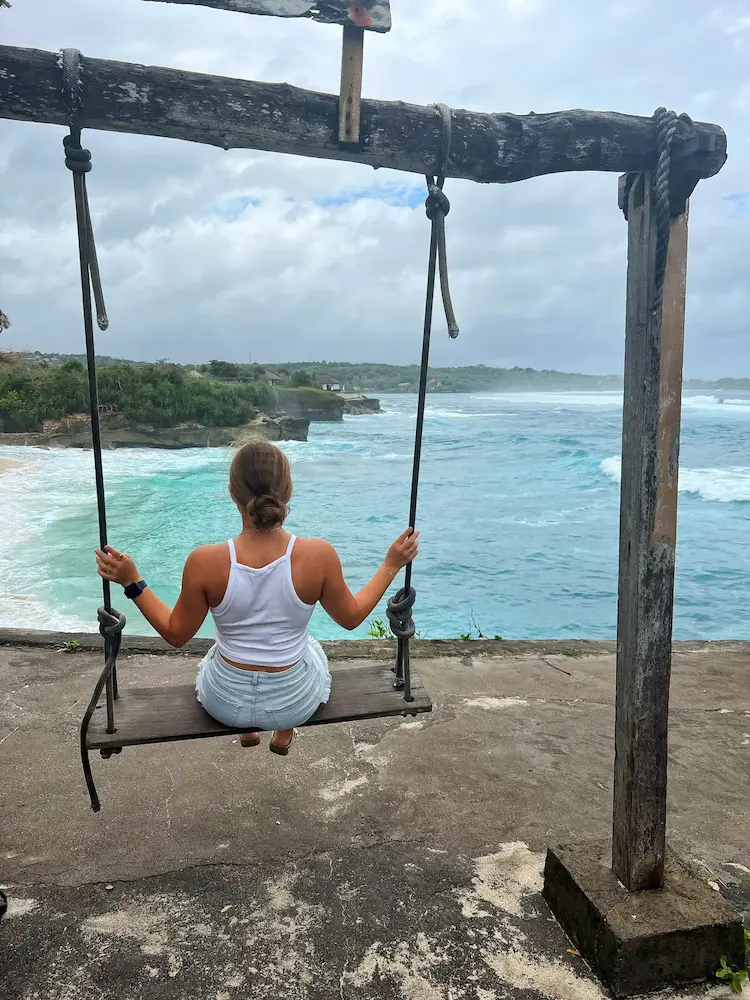
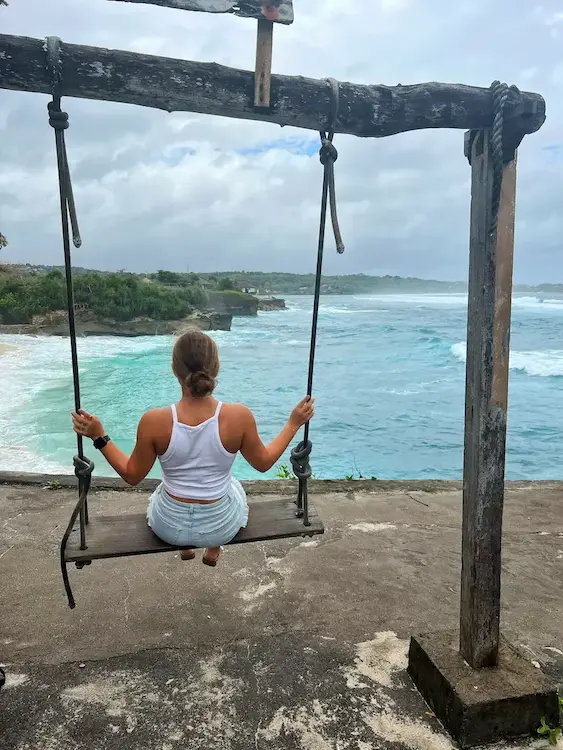
Ryddet op i css + billede optimering

diff --git a/css/layout.css b/css/layout.css
@@ -81,10 +81,6 @@ p {
   border-radius: 5%;
   list-style-position: inside;
 }
-/* .top-row,
-p {
-  padding-left: 2em;
-} */
 
 section .top-row {
   background-color: #ffffff;
@@ -92,12 +88,6 @@ section .top-row {
 }
 
 .grid_1 {
-  /* display: grid;
-  grid-template-columns: 1fr;
-  place-items: center;
-  margin-top: 50px;
-  margin-bottom: 100px;
-  padding-top: 2.5em; */
   grid-row: 1;
   grid-column: 1;
   text-align: center;
@@ -111,9 +101,6 @@ section .top-row {
   margin-top: 2em;
 }
 
-/* .grid_1 {
-  margin-top: 5em;
-} */
 
 .grid_1 .billede-container {
   grid-area: 1 / 1;
@@ -151,7 +138,6 @@ section .top-row {
   display: grid;
   grid-template-columns: 1fr 1fr;
   gap: 6em;
-  /* padding-top: 10em; */
   padding-left: 5em;
   padding-right: 5em;
   padding-bottom: 8em;
@@ -170,9 +156,9 @@ section .top-row {
 }
 .card {
   border: 1px solid #d4d4d4;
-  padding: 16px; /* Luft indeni boksen */
+  padding: 16px; 
   max-width: 300px;
-  margin: 20px auto; /* Centrerer den på siden */
+  margin: 20px auto; 
   text-align: center;
   box-shadow: 1px 1px 14px 8px rgb(0 0 0 / 20%);
   background-color: white;
@@ -192,7 +178,6 @@ section .top-row {
   place-items: center;
   width: 50%;
   margin: auto;
-  /* margin-top: -70px; */
   margin-top: 3em;
   padding-bottom: 8em;
 }
@@ -233,7 +218,7 @@ p {
   box-sizing: border-box;
 }
 
-/* Skjul checkbox */
+
 .dropdown input[type="checkbox"] {
   display: none;
 }
@@ -251,7 +236,7 @@ p {
   text-align: left;
 }
 
-/* Dropdown-indhold (fakta-tekst) skjult som standard */
+
 .dropdown-content {
   max-height: 0;
   overflow: hidden;
@@ -263,7 +248,7 @@ p {
   transition: max-height 0.3s ease, padding 0.3s ease;
 }
 
-/* Fakta-tekst */
+
 .dropdown-content p {
   margin: 12px 0;
   color: #000000;
@@ -271,28 +256,12 @@ p {
   text-align: left;
 }
 
-/* Vis dropdown når checkbox er aktiveret */
+
 .dropdown input[type="checkbox"]:checked + label + .dropdown-content {
-  max-height: 500px; /* Nok plads til at vise tekst */
+  max-height: 500px; 
   padding: 15px 20px;
 }
 
-/* nav ol {
-  display: flex;
-} */
-
-/* @media (width >=550px) {
-}
-@media (width >=1100px) {
-  h1 {
-    font-size: 38px;
-  }
-}
-@media (width: 1500px) {
-  h1 {
-    font-size: 38px;
-  }
-} */
 
 @media (width < 800px) {
   .grid_1-1 {

diff --git a/css/generel.css b/css/generel.css
@@ -1,12 +1,9 @@
-/* @media (max-width =768px) {
-} */
-
 body {
   font-family: "Abel", sans-serif;
   font-weight: 400;
   font-style: normal;
 }
-main{
+main {
   background-color: rgb(250, 249, 255);
 }
 h1 {
@@ -34,7 +31,6 @@ nav {
 footer {
   background-color: #c5d2e2;
   padding: 5em;
-  
 }
 
 header {
@@ -42,14 +38,9 @@ header {
 }
 
 .border {
-  /* display: flex;
-  justify-content: space-between;
-  align-items: center;
-  padding-right: 50px; */
   position: sticky;
   top: 0;
   background-color: white;
-  /* z-index: 1000; */
   box-shadow: 0 4px 4px rgba(0, 0, 0, 0.1);
 }
 
@@ -62,7 +53,7 @@ header {
   height: auto;
 }
 nav :visited {
-  color: inherit; /* Undgår farveskift efter klik */
+  color: inherit;
 }
 
 .linje {
